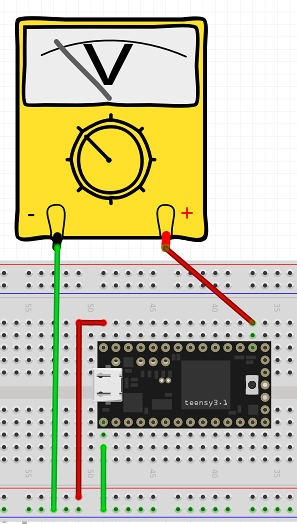
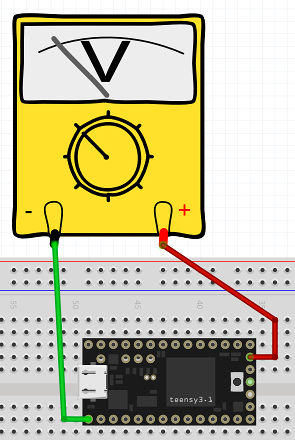
hanged to use DAC output

diff --git a/analog_output/analog.c b/analog_output/analog.c
@@ -5,19 +5,21 @@
 */
 
 // the analog pin to write voltage to
-const int analogOutPin = A0;
+const int analogOutPin = A14;
 // LED to flash every sawtooth cycle start
 const int ledPin = LED_BUILTIN;        // pin 13 for teensy 3.1
 
 // states of sawtooth wave
-#define W_RISING        0
-#define W_FALLING        1
+#define W_RISING	0
+#define W_FALLING	1
 bool waveState = W_RISING;
 
 void setup()
 {
     Serial.begin(38400);
     pinMode(ledPin, OUTPUT);
+    pinMode(analogOutPin, OUTPUT);
+    analogWriteResolution(8);
 }
 
 void blinkLED(void)
@@ -37,20 +39,20 @@ void loop()
 
     if (waveState == W_RISING)
     {
-        if (++value >= 1024)
-        {
-            value = 1023;
-            waveState = W_FALLING;
-        }
+	if (++value >= 256)
+	{
+	    value = 255;
+	    waveState = W_FALLING;
+	}
     }
     else
     {
-        if (--value <= 0)
-        {
-            value = 0;
-            waveState = W_RISING;
-            blinkLED();
-        }
+	if (--value <= 0)
+	{
+	    value = 0;
+	    waveState = W_RISING;
+	    blinkLED();
+	}
     }
-    delay(20);
+    delay(100);
 }

diff --git a/analog_output/README.rst b/analog_output/README.rst
@@ -4,10 +4,10 @@ Analog_output
 Here we have programs that demonstrate analog output.
 
 **analog.c** is a program that uses software delay() calls in loop() to write
-a symmetric sawtooth output voltage on analog pin A0.  The layout used is:
+a symmetric sawtooth output voltage on DAC output pin A14.  The layout used is:
 
 .. image:: breadboard1.png
-    :width: 297
-    :height: 524
-    :alt: circuit used to test analog output (http://fritzing.org/)
+    :width: 295
+    :height: 440
+    :alt: circuit used to test DAC output (http://fritzing.org/)
 
